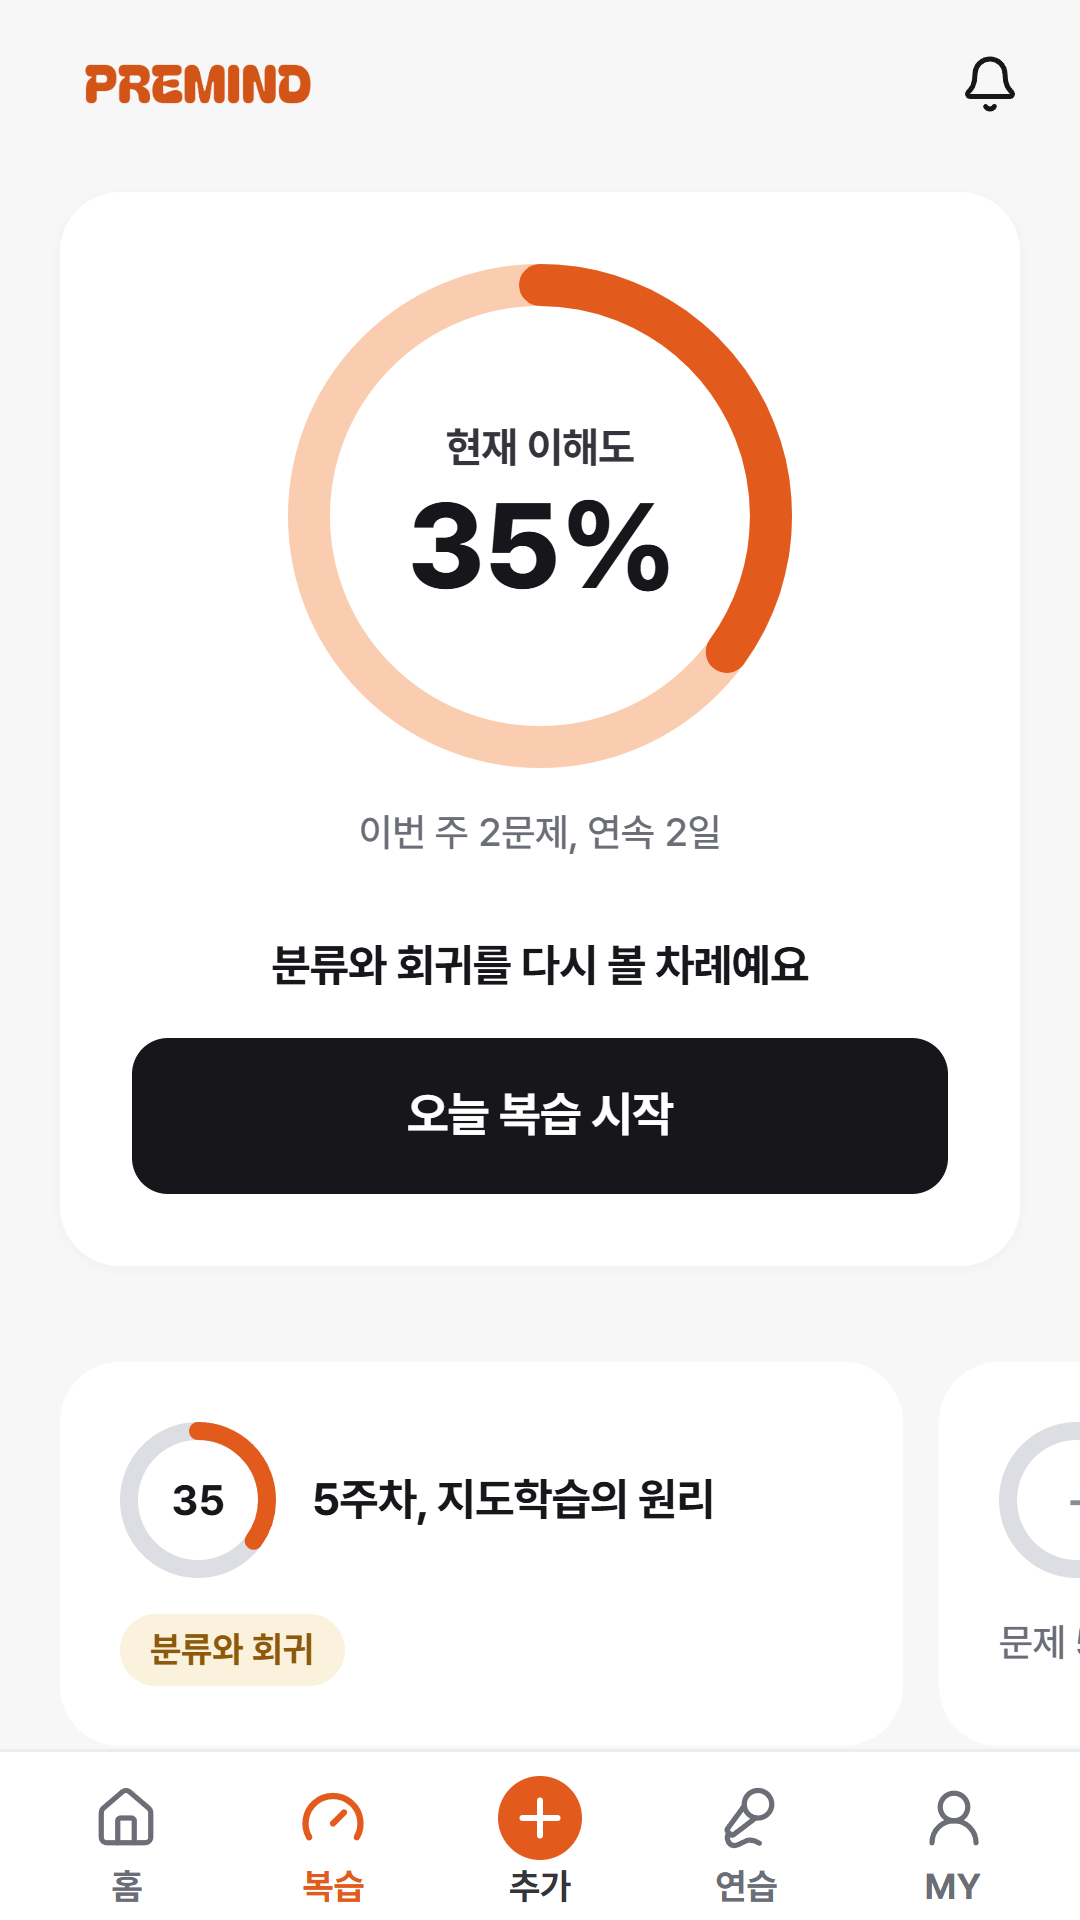
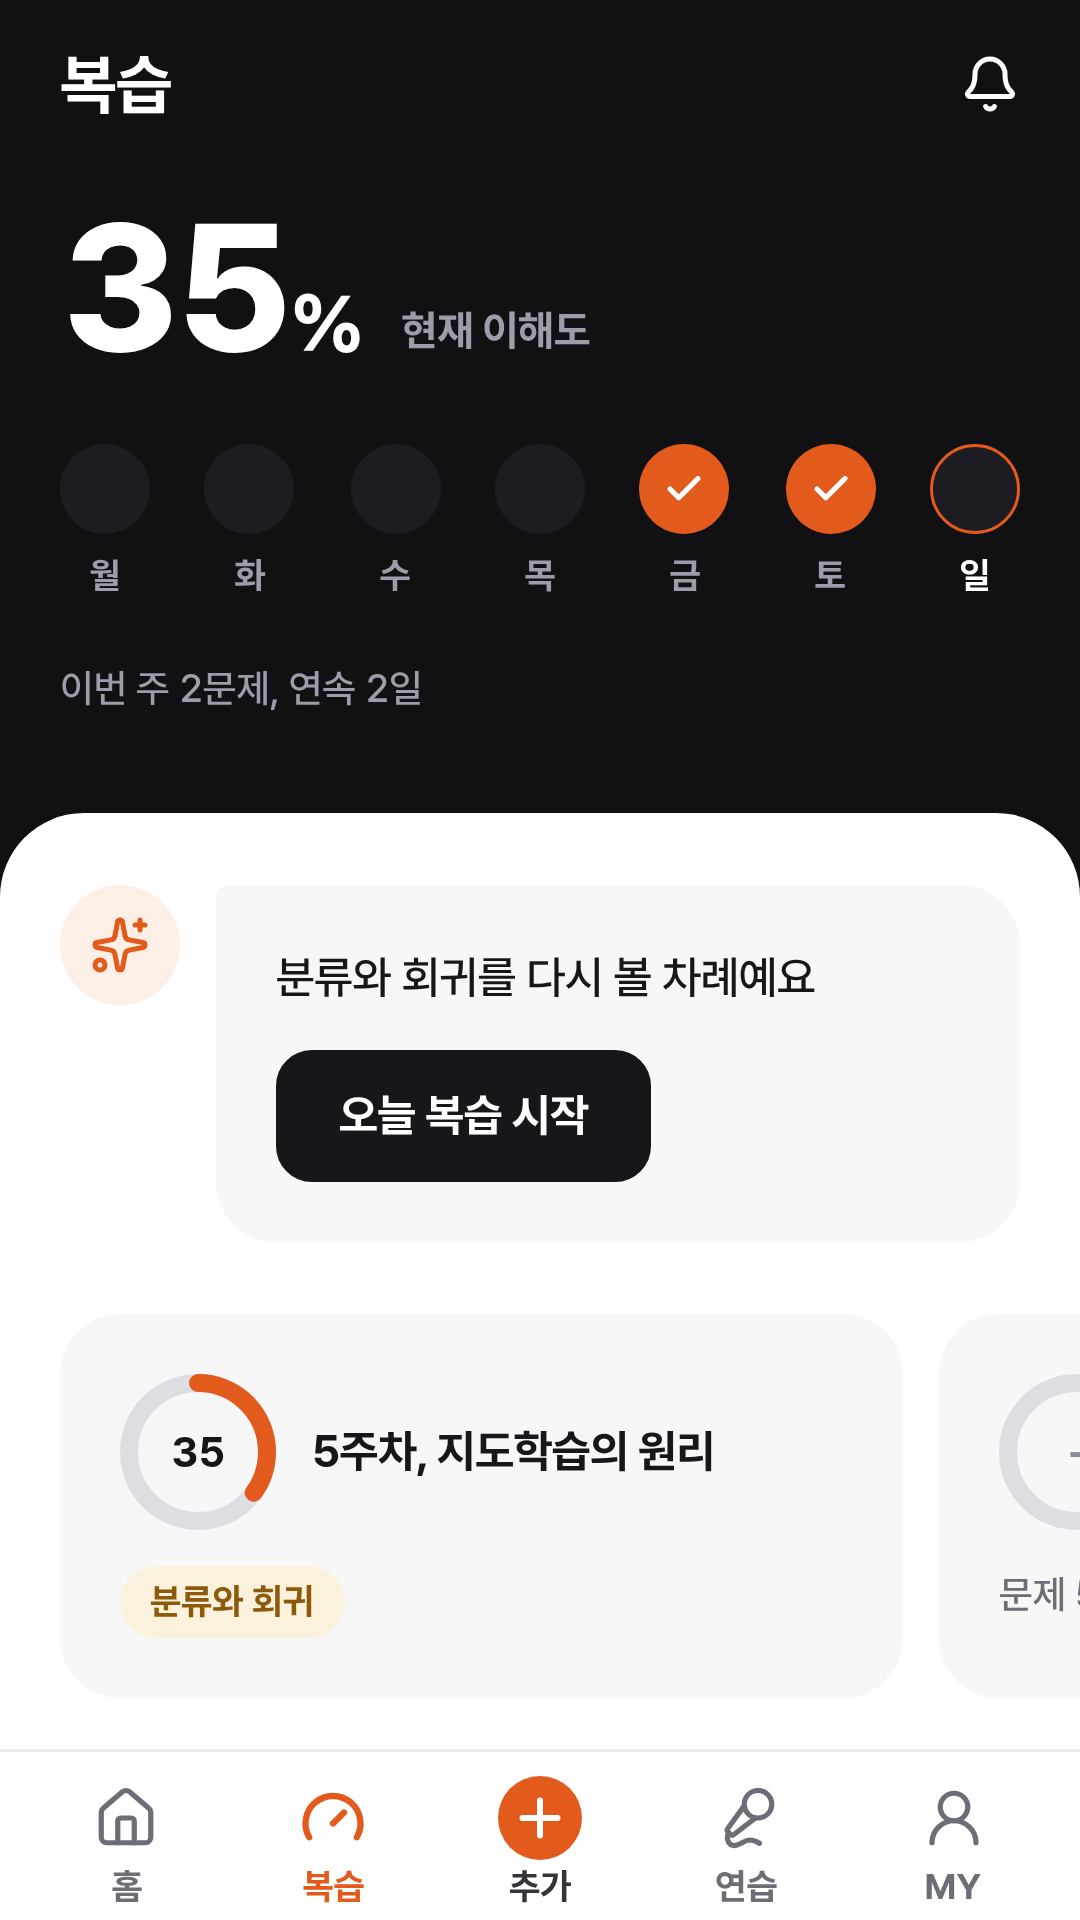
release: 1.0.7 versionCode 16 프로덕션 후보 — 홈 시트 틈새, 자막 이름, 스토어 캡처 갱신
- 홈: 흰 시트를 폴더 쪽마다 두지 않고 하나로 고정하고 그 안에서 쪽만 넘긴다. 쪽마다 둥근 모서리가
  있어 넘기는 중 가운데와 양옆에 어두운 틈이 보였다(2026-10-04 QA). 인사와 입력창도 위에 고정
- 데모 계정은 "PREMIND 사용자님" 대신 이름 없이 인사한다
- 자막 녹음의 남은 "저장한 대본"을 "저장한 자막"으로
- 스토어 스크린샷 8장과 그래픽 이미지를 방향 D 화면으로 다시 찍는다. 홈 제목 "녹음, 영상, PDF를
  공부할 거리로", 마인드맵은 고정된 플레이어 아래에서 스크롤 없이
- refresh-brand-icons.mjs 에 Buffer import

QA: 타입, 린트 통과, 테스트 907개 통과, 웹 21개 화면 x 2 크기 오류, 빈 화면, 넘침 없음,
핵심 흐름 22개 통과, R8 누락 클래스 경고 없음.

diff --git a/src/app/(tabs)/index.tsx b/src/app/(tabs)/index.tsx
@@ -68,6 +68,7 @@ import { formatMaterialLength } from '@/lib/format';
 import { useT } from '@/lib/i18n';
 import { useLayout } from '@/lib/layout';
 import { parseYouTubeId } from '@/lib/youtube';
+import { isDemoSession } from '@/services/api/session-manager';
 import { useAppStore } from '@/state/app-store';
 import { inputReset } from '@/theme/input-reset';
 import { colors, iconSizes, motion, radii, sizes, spacing, typography } from '@/theme/tokens';
@@ -845,41 +846,19 @@ export default function HomeScreen() {
         {listHeading}
       </View>
     ) : (
-      <View>
-        {showStart ? (
-          <View style={{ paddingHorizontal: gutter }}>
-            <HomeHero
-              name={session?.user.name?.trim() ?? ''}
-              onImport={openImport}
-              onLink={openYoutubeWith}
-              onRecord={openRecording}
-            />
-          </View>
-        ) : null}
-        {/* The white sheet rises over the dark top; the folders live in it. */}
-        <View style={styles.sheetTop}>
-          <SubjectTabs
-            activeIndex={safePageIndex}
-            gutter={gutter}
-            onAddPress={openProjectSheet}
-            onSelect={goToPage}
-            tabs={subjectTabs}
+      <View style={[styles.sheetHead, { paddingHorizontal: gutter }]}>
+        {showStart && hasMaterial ? (
+          <TodayReview
+            material={continueMaterial}
+            onCards={(material) =>
+              router.push({ pathname: '/cards/[id]', params: { id: material.id } })
+            }
+            onQuiz={(material) =>
+              router.push({ pathname: '/quiz/[id]', params: { id: material.id } })
+            }
           />
-          <View style={[styles.sheetHead, { paddingHorizontal: gutter }]}>
-            {showStart && hasMaterial ? (
-              <TodayReview
-                material={continueMaterial}
-                onCards={(material) =>
-                  router.push({ pathname: '/cards/[id]', params: { id: material.id } })
-                }
-                onQuiz={(material) =>
-                  router.push({ pathname: '/quiz/[id]', params: { id: material.id } })
-                }
-              />
-            ) : null}
-            {listHeading}
-          </View>
-        </View>
+        ) : null}
+        {listHeading}
       </View>
     );
     const empty = !hasMaterial && showEmptyAction ? (
@@ -958,6 +937,29 @@ export default function HomeScreen() {
           }
         />
 
+        <View style={{ paddingHorizontal: gutter }}>
+          <HomeHero
+            // The demo account's name is a placeholder ("PREMIND 사용자");
+            // greeting it by name reads oddly, so the demo gets no name.
+            name={isDemoSession(session) ? '' : session?.user.name?.trim() ?? ''}
+            onImport={openImport}
+            onLink={openYoutubeWith}
+            onRecord={openRecording}
+          />
+        </View>
+
+        {/* One white sheet over the dark top, fixed, with the folder tabs on its
+            edge and only the pages swiping inside it. A sheet per page left
+            dark gaps at the rounded corners whenever two pages met mid-swipe
+            (2026-10-04 QA: "왼쪽 오른쪽 중앙 틈새"). */}
+        <View style={styles.sheetFixed}>
+        <SubjectTabs
+          activeIndex={safePageIndex}
+          gutter={gutter}
+          onAddPress={openProjectSheet}
+          onSelect={goToPage}
+          tabs={subjectTabs}
+        />
         <View
           onLayout={(event) => {
             const width = Math.round(event.nativeEvent.layout.width);
@@ -989,6 +991,7 @@ export default function HomeScreen() {
             style={styles.pager}
             windowSize={5}
           />
+        </View>
         </View>
       </Screen>
       )}
@@ -1345,11 +1348,14 @@ const styles = StyleSheet.create({
     flex: 1,
     minWidth: 0,
   },
-  /** Direction D: the white sheet's rounded top edge, over the dark screen. */
-  sheetTop: {
+  /** Direction D: the one white sheet under the hero; the pages swipe inside it. */
+  sheetFixed: {
     backgroundColor: colors.background,
     borderTopLeftRadius: radii.sheet,
     borderTopRightRadius: radii.sheet,
+    flex: 1,
+    minHeight: 0,
+    overflow: 'hidden',
     paddingTop: spacing.md,
   },
   sheetHead: {

diff --git a/src/app/record-transcript.tsx b/src/app/record-transcript.tsx
@@ -96,17 +96,17 @@ function LiveTranscriptScreen({ workspaceId }: { readonly workspaceId: string })
             {!recorder.supported ? <AppText tone="muted">{t('Android 13 이상이나 iOS 앱에서 쓸 수 있어요')}</AppText> : null}
             <Button variant="secondary" disabled={busy} onPress={() => router.dismissTo('/record')}>{t('일반 녹음으로 시작')}</Button>
           </Card>
-          <AppText variant="heading">{t('저장한 대본')}</AppText>
+          <AppText variant="heading">{t('저장한 자막')}</AppText>
           {recorder.loadingHistory ? <AppText tone="muted">{t('대본을 불러오고 있어요')}</AppText>
             : recorder.history.length ? <Card padding={false}>
               {recorder.history.slice(0, historyLimit).map((item) => <ListRow key={item.id} title={item.title}
                 subtitle={t('{n}문장 / {state}', { n: item.paragraphs.length, state: t(item.status === 'completed' ? '완료' : '이어서 녹음 가능') })}
                 onPress={() => setSelected(item)} />)}
               {recorder.history.length > historyLimit ? <Button variant="ghost" onPress={() => setHistoryLimit((value) => value + 10)}>{t('더 보기')}</Button> : null}
-            </Card> : <AppText tone="muted">{t('아직 저장한 대본이 없어요')}</AppText>}
+            </Card> : <AppText tone="muted">{t('아직 저장한 자막이 없어요')}</AppText>}
         </> : <>
           <AppText variant="heading">{draft.title}</AppText>
-          <StatusBadge label={t(state ? phaseLabel : draft.status === 'completed' ? '저장한 대본' : '이어서 녹음 가능')} tone={phase === 'recording' ? 'brand' : 'neutral'} />
+          <StatusBadge label={t(state ? phaseLabel : draft.status === 'completed' ? '저장한 자막' : '이어서 녹음 가능')} tone={phase === 'recording' ? 'brand' : 'neutral'} />
           <AppText tone="muted" variant="meta" accessibilityLiveRegion="polite">{t(state?.unsaved ? '기기에 저장 중…' : '이 기기에 자동 저장됨')}</AppText>
           {draft.paragraphs.map((text, index) => <AppText key={index} selectable>{text}</AppText>)}
           {draft.interim ? <Card style={styles.card}><AppText variant="badge">{t('인식 중')}</AppText><AppText selectable tone="muted">{draft.interim}</AppText></Card> : null}

diff --git a/src/lib/i18n/en/live-transcript.ts b/src/lib/i18n/en/live-transcript.ts
@@ -13,11 +13,10 @@ export const EN_LIVE_TRANSCRIPT: EnDict = {
   'Android 13 이상이나 iOS 앱에서 쓸 수 있어요': 'Available on Android 13 or later, or in the iOS app',
   '일반 녹음으로 시작': 'Use standard recording',
   '일반 녹음으로 전환': 'Switch to standard recording',
-  '저장한 대본': 'Saved transcripts',
   '대본을 불러오고 있어요': 'Loading transcripts',
   '{n}문장 / {state}': '{n} passages / {state}',
   '이어서 녹음 가능': 'Ready to resume',
-  '아직 저장한 대본이 없어요': 'No saved transcripts yet',
+  '아직 저장한 자막이 없어요': 'No saved captions yet',
   '음성 인식 준비 중': 'Preparing speech recognition',
   '마이크 연결 중': 'Connecting microphone',
   '듣고 있어요': 'Listening',
@@ -59,4 +58,5 @@ export const EN_LIVE_TRANSCRIPT: EnDict = {
   '녹음을 종료하지 못했어요.': 'Could not stop recording.',
   '음성 인식을 중단하지 못했어요.': 'Could not stop speech recognition.',
   '기기에 저장하지 못했어요. 다시 저장을 눌러 주세요.': 'Could not save on this device. Tap Save again.',
+  '저장한 자막': 'Saved captions',
 };
